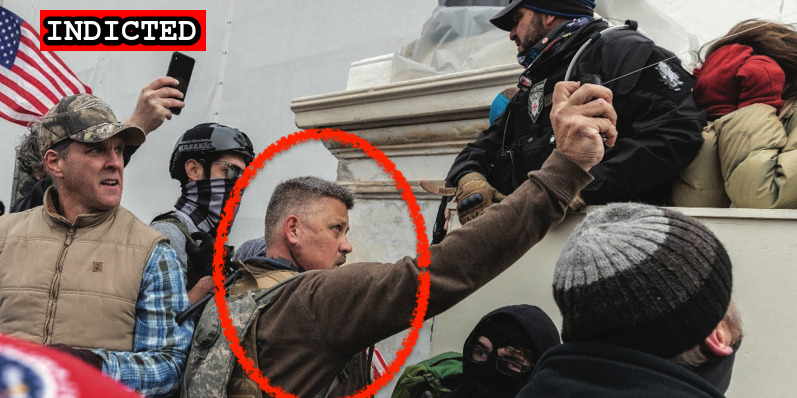
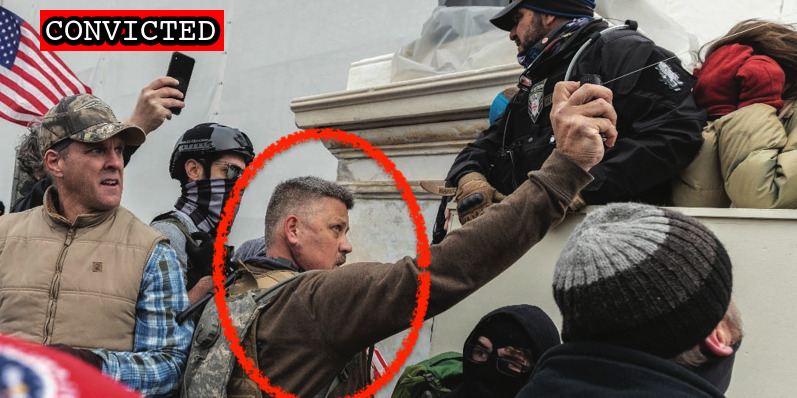
Latest

Changed region(s): [[0.0301, 0.0302, 0.3011, 0.1508]]

diff --git a/docs/_suspects/thomas-smith.md b/docs/_suspects/thomas-smith.md
@@ -4,11 +4,11 @@ lastName: Smith
 hashtag: MississippiFlagGuy
 aka:
 residence: Mississippi
-status: Indicted
+status: Convicted
 date: 2021-09-24
 charged: 2021-09-24
 indicted: 2021-09-24
-convicted:
+convicted: 2023-05-05
 acquitted:
 sentenced:
 dismissed:
@@ -32,7 +32,7 @@ raid:
 perpwalk:
 quote:
 title: Thomas Smith charged on September 24, 2021
-description: Click for latest case details. Suspects innocent until proven guilty.
+description: Convicted on May 5, 2023. Click for latest case details.
 author: seditiontrack
 layout: suspect
 published: true
@@ -41,7 +41,52 @@ caseName: USA v. SMITH
 judge: Carl J. Nichols
 videos:
 charges:
+  - code: 18 USC § 231(a)(3)
+    title: Obstruction of Law Enforcement During Civil Disorder
+    url: https://www.law.cornell.edu/uscode/text/18/231
+    felony: true
+  - code: 18 USC § 231(a)(3)
+    title: Obstruction of Law Enforcement During Civil Disorder
+    url: https://www.law.cornell.edu/uscode/text/18/231
+    felony: true
+  - code: 18 USC § 1512(c)(2),2
+    title: Obstruction of an Official Proceeding (Aiding and Abetting)
+    url: https://www.law.cornell.edu/uscode/text/18/1512
+    felony: true
+  - code: 18 USC § 111(a)(1)
+    title: Assaulting, resisting, or impeding certain officers or employees
+    url: https://www.law.cornell.edu/uscode/text/18/111
+    felony: true
+  - code: 18 USC § 111(a)(1)
+    title: Assaulting, resisting, or impeding certain officers or employees
+    url: https://www.law.cornell.edu/uscode/text/18/111
+    felony: true
+  - code: 18 USC § 111(a)(1) and (b)
+    title: Assaulting, resisting, or impeding certain officers or employees (using a deadly or dangerous weapon)
+    url: https://www.law.cornell.edu/uscode/text/18/111
+    felony: true
+  - code: 18 USC § 1752(a)(1) and b(1)(A)
+    title: Entering a restricted building or grounds (w/a deadly weapon)
+    url: https://www.law.cornell.edu/uscode/text/18/1752
+    felony: true
+  - code: 18 USC § 1752(a)(1) and b(1)(A)
+    title: Entering a restricted building or grounds (w/a deadly weapon)
+    url: https://www.law.cornell.edu/uscode/text/18/1752
+    felony: true
+  - code: 18 USC § 1752(a)(1) and b(1)(A)
+    title: Entering a restricted building or grounds (w/a deadly weapon)
+    url: https://www.law.cornell.edu/uscode/text/18/1752
+    felony: true
+  - code: 40 USC § 5104(e)(2)(D)
+    title: Disorderly Conduct in a Capitol Building
+    url: https://www.law.cornell.edu/uscode/text/40/5104
+    felony: false
+  - code: 40 USC § 5104(e)(2)(F)
+    title: Act of physical violence on Capitol grounds
+    url: https://www.law.cornell.edu/uscode/text/40/5104
+    felony: false
 sentence:
 ---
+
 - [News Report](https://www.huffpost.com/entry/trump-capitol-riot-cops_n_615dbe0ae4b069a0b3b84316)
-- [Indictment](https://extremism.gwu.edu/sites/g/files/zaxdzs2191/f/Donnie%20Duane%20Wren%20and%20Thomas%20Harlen%20Smith%20Indictment.pdf)
+- [Indictment](https://storage.courtlistener.com/recap/gov.uscourts.dcd.235927/gov.uscourts.dcd.235927.71.0_1.pdf)

diff --git a/docs/_suspects/christopher-worrell.md b/docs/_suspects/christopher-worrell.md
@@ -4,11 +4,11 @@ lastName: Worrell
 hashtag: SgtPepperSprayer
 aka:
 residence: Florida
-status: Indicted
+status: Convicted
 date: 2021-03-10
 charged: 2021-03-10
 indicted: 2021-04-09
-convicted:
+convicted: 2023-05-12
 acquitted:
 sentenced:
 dismissed:
@@ -17,7 +17,7 @@ plea_hearing:
 trial_date: 2022-12-12
 trial_type: Bench Trial
 jury_selection:
-sentencing:
+sentencing: 2023-08-18
 status_conference:
 age: 49
 occupation:
@@ -32,7 +32,7 @@ raid:
 perpwalk:
 quote:
 title: Christopher Worrell arrested on March 10, 2021
-description: Click for latest case details. Suspects innocent until proven guilty.
+description: Convicted on May 12, 2023. Click for latest case details.
 author: seditiontrack
 layout: suspect
 published: true
@@ -41,8 +41,33 @@ caseName: USA v. WORRELL
 judge: Royce C. Lamberth
 videos:
 charges:
+  - code: 18 USC § 1512(c)(2),2
+    title: Obstruction of an Official Proceeding (Aiding and Abetting)
+    url: https://www.law.cornell.edu/uscode/text/18/1512
+    felony: true
+  - code: 18 USC § 1752(a)(1) and b(1)(A)
+    title: Entering a restricted building or grounds (w/a deadly weapon)
+    url: https://www.law.cornell.edu/uscode/text/18/1752
+    felony: true
+  - code: 18 USC § 1752(a)(2) and b(1)(A)
+    title: Disorderly and Disruptive Conduct in a Restricted Building or Grounds (w/a deadly weapon)
+    url: https://www.law.cornell.edu/uscode/text/18/1752
+    felony: true
+  - code: 18 USC § 1752(a)(4), (b)(1)(A)
+    title: Entering a restricted building or grounds with a dangerous or deadly weapon
+    url: https://www.law.cornell.edu/uscode/text/18/1752
+    felony: true
+  - code: 18 USC § 231(a)(3)
+    title: Obstruction of Law Enforcement During Civil Disorder
+    url: https://www.law.cornell.edu/uscode/text/18/231
+    felony: true
+  - code: 18 USC § 111(a)(1) and (b)
+    title: Assaulting, resisting, or impeding certain officers or employees (using a deadly or dangerous weapon)
+    url: https://www.law.cornell.edu/uscode/text/18/111
+    felony: true
 sentence:
 ---
+
 - [News Report](https://www.naplesnews.com/story/news/2021/03/13/christopher-worrell-arrested-naples-ties-proud-boys-capitol-riot-suspected/4682025001/)
 - [Statement of Facts](https://www.justice.gov/usao-dc/case-multi-defendant/file/1379556/download)
-- [Indictment](https://www.justice.gov/usao-dc/case-multi-defendant/file/1387156/download)
+- [Indictment](https://storage.courtlistener.com/recap/gov.uscourts.dcd.229958/gov.uscourts.dcd.229958.147.0.pdf)

diff --git a/docs/_suspects/donnie-wren.md b/docs/_suspects/donnie-wren.md
@@ -4,11 +4,11 @@ lastName: Wren
 hashtag: KingstonAsh
 aka:
 residence: Alabama
-status: Indicted
+status: Convicted
 date: 2021-09-24
 charged: 2021-09-24
 indicted: 2021-09-24
-convicted:
+convicted: 2023-05-05
 acquitted:
 sentenced:
 dismissed:
@@ -17,7 +17,7 @@ plea_hearing:
 trial_date: 2023-04-19
 trial_type: Jury Trial
 jury_selection: 2023-04-19
-sentencing:
+sentencing: 2023-08-17
 status_conference:
 age:
 occupation:
@@ -32,7 +32,7 @@ raid:
 perpwalk:
 quote:
 title: Donnie Wren charged on September 24, 2021
-description: Click for latest case details. Suspects innocent until proven guilty.
+description: Convicted on May 5, 2023. Click for latest case details.
 author: seditiontrack
 layout: suspect
 published: true
@@ -41,7 +41,20 @@ caseName: USA v. WREN
 judge: Reggie B. Walton
 videos:
 charges:
+  - code: 18 USC § 231(a)(3)
+    title: Obstruction of Law Enforcement During Civil Disorder
+    url: https://www.law.cornell.edu/uscode/text/18/231
+    felony: true
+  - code: 18 USC § 111(a)(1)
+    title: Assaulting, resisting, or impeding certain officers or employees
+    url: https://www.law.cornell.edu/uscode/text/18/111
+    felony: true
+  - code: 18 USC § 1752(a)(1)
+    title: Entering a restricted building or grounds
+    url: https://www.law.cornell.edu/uscode/text/18/1752
+    felony: false
 sentence:
 ---
+
 - [News Report](https://www.huffpost.com/entry/trump-capitol-riot-cops_n_615dbe0ae4b069a0b3b84316)
-- [Indictment](https://extremism.gwu.edu/sites/g/files/zaxdzs2191/f/Donnie%20Duane%20Wren%20and%20Thomas%20Harlen%20Smith%20Indictment.pdf)
+- [Indictment](https://storage.courtlistener.com/recap/gov.uscourts.dcd.235927/gov.uscourts.dcd.235927.71.0_1.pdf)

diff --git a/docs/_suspects/daniel-scott.md b/docs/_suspects/daniel-scott.md
@@ -41,18 +41,19 @@ caseName: USA v. SCOTT
 judge: Royce C. Lamberth
 videos:
 charges:
-- code: 18 USC § 1512(c)(2),2
-  title: Obstruction of an Official Proceeding (Aiding and Abetting)
-  url: https://www.law.cornell.edu/uscode/text/18/1512
-  felony: true
-- code: 18 USC § 111(a)(1)
-  title: Assaulting, resisting, or impeding certain officers or employees
-  url: https://www.law.cornell.edu/uscode/text/18/111
-  felony: true
+  - code: 18 USC § 1512(c)(2),2
+    title: Obstruction of an Official Proceeding (Aiding and Abetting)
+    url: https://www.law.cornell.edu/uscode/text/18/1512
+    felony: true
+  - code: 18 USC § 111(a)(1)
+    title: Assaulting, resisting, or impeding certain officers or employees
+    url: https://www.law.cornell.edu/uscode/text/18/111
+    felony: true
 sentence:
 ---
+
 - [News Report](https://www.washingtonpost.com/local/legal-issues/proudboy-screaming-lets-take-capitol-arrested/2021/05/20/ccae5e00-b9a7-11eb-a6b1-81296da0339b_story.html)
 - [Statement of Facts](https://www.justice.gov/usao-dc/case-multi-defendant/file/1395876/download)
-- [Indictment](https://extremism.gwu.edu/sites/g/files/zaxdzs2191/f/Daniel%20Lyons%20Scott%20Indictment.pdf)
+- [Indictment](https://storage.courtlistener.com/recap/gov.uscourts.dcd.229958/gov.uscourts.dcd.229958.147.0.pdf)
 - [Plea Agreement](https://storage.courtlistener.com/recap/gov.uscourts.dcd.243944/gov.uscourts.dcd.243944.208.0.pdf)
 - [Statement of Offense](https://storage.courtlistener.com/recap/gov.uscourts.dcd.243944/gov.uscourts.dcd.243944.209.0.pdf)

diff --git a/docs/_suspects/dale-shalvey.md b/docs/_suspects/dale-shalvey.md
@@ -41,20 +41,19 @@ caseName: USA v. SHALVEY
 judge: Timothy J. Kelly
 videos:
 charges:
-  - code: 18 USC § 111(a)(1)
-    title: Assaulting, resisting, or impeding certain officers or employees
-    url: https://www.law.cornell.edu/uscode/text/18/111
-    felony: true
-  - code: 18 USC § 1512(c)(2),2
-    title: Obstruction of an Official Proceeding (Aiding and Abetting)
-    url: https://www.law.cornell.edu/uscode/text/18/1512
-    felony: true
+- code: 18 USC § 111(a)(1)
+  title: Assaulting, resisting, or impeding certain officers or employees
+  url: https://www.law.cornell.edu/uscode/text/18/111
+  felony: true
+- code: 18 USC § 1512(c)(2),2
+  title: Obstruction of an Official Proceeding (Aiding and Abetting)
+  url: https://www.law.cornell.edu/uscode/text/18/1512
+  felony: true
 sentence:
   - 41 months incarceration
   - 2 years probation
   - $200 restitution
 ---
-
 - [News Report](https://www.thedailybeast.com/pennsylvania-rioter-dale-shalvey-charged-after-going-through-senate-papers-during-capitol-riot)
 - [Statement of Facts](https://www.justice.gov/usao-dc/case-multi-defendant/file/1379321/download)
 - [Indictment](https://www.justice.gov/usao-dc/case-multi-defendant/file/1473426/download)

diff --git a/docs/_suspects/nathaniel-degrave.md b/docs/_suspects/nathaniel-degrave.md
@@ -41,21 +41,20 @@ caseName: USA v. DEGRAVE
 judge:
 videos:
 charges:
-  - code: 18 USC § 1512(k)
-    title: Conspiracy to Obstruct an Official Proceeding
-    url: https://www.law.cornell.edu/uscode/text/18/1512
-    felony: true
-  - code: 18 USC § 111(a)(1)
-    title: Assaulting, resisting, or impeding certain officers or employees
-    url: https://www.law.cornell.edu/uscode/text/18/111
-    felony: true
+- code: 18 USC § 1512(k)
+  title: Conspiracy to Obstruct an Official Proceeding
+  url: https://www.law.cornell.edu/uscode/text/18/1512
+  felony: true
+- code: 18 USC § 111(a)(1)
+  title: Assaulting, resisting, or impeding certain officers or employees
+  url: https://www.law.cornell.edu/uscode/text/18/111
+  felony: true
 sentence:
   - 37 months incarceration
   - 3 years probation
   - $25000 fine
   - $2000 restitution
 ---
-
 - [News Report](https://www.8newsnow.com/i-team/i-team-special-reports/i-team-las-vegas-nevada-man-accused-of-taking-part-in-capitol-riot-called-president-trump-his-idol-fbi/)
 - [Complaint](https://www.justice.gov/opa/page/file/1362391/download)
 - [Statement of Facts](https://www.justice.gov/opa/page/file/1362391/download)

diff --git a/docs/_suspects/josiah-colt.md b/docs/_suspects/josiah-colt.md
@@ -41,16 +41,15 @@ caseName: USA v. COLT
 judge: Dabney L. Friedrich
 videos:
 charges:
-  - code: 18 USC § 1512(c)(2)
-    title: Obstruction of an Official Proceeding
-    url: https://www.law.cornell.edu/uscode/text/18/1512
-    felony: true
+- code: 18 USC § 1512(c)(2)
+  title: Obstruction of an Official Proceeding
+  url: https://www.law.cornell.edu/uscode/text/18/1512
+  felony: true
 sentence:
   - 15 months incarceration
   - 3 years probation
   - $1000 restitution
 ---
-
 - [News Report](https://wgntv.com/news/josiah-colt-man-seen-hanging-from-senate-balcony-turns-himself-in/)
 - [DOJ Press Release](https://www.justice.gov/usao-dc/pr/seven-charged-federal-court-following-events-united-capitol)
 - [Self Incrimination Pt. 1](https://idahonews.com/more-to-watch/boise-man-goes-viral-after-making-his-way-onto-senate-floor?utm_source=t.co&utm_medium=referral&utm_campaign=socialflow)

diff --git a/docs/_suspects/katharine-morrison.md b/docs/_suspects/katharine-morrison.md
@@ -41,16 +41,15 @@ caseName: USA v. MORRISON
 judge: Timothy J. Kelly
 videos:
 charges:
-  - code: 18 USC § 1512(c)(2),2
-    title: Obstruction of an Official Proceeding (Aiding and Abetting)
-    url: https://www.law.cornell.edu/uscode/text/18/1512
-    felony: true
+- code: 18 USC § 1512(c)(2),2
+  title: Obstruction of an Official Proceeding (Aiding and Abetting)
+  url: https://www.law.cornell.edu/uscode/text/18/1512
+  felony: true
 sentence:
   - 8 months incarceration
   - 2 years probation
   - $2000 restitution
 ---
-
 - [News Report](https://www.whec.com/livingston-county-ny-news/livingston-county-woman-indicted-for-capitol-riot/6426541/)
 - [Indictment](https://www.justice.gov/usao-dc/case-multi-defendant/file/1473421/download)
 - [Plea Agreement](https://www.justice.gov/usao-dc/case-multi-defendant/file/1540346/download)

diff --git a/docs/_suspects/salvatore-vassallo.md b/docs/_suspects/salvatore-vassallo.md
@@ -41,13 +41,12 @@ caseName: USA v. VASSALLO
 judge: Amy B. Jackson
 videos:
 charges:
-  - code: 18 USC § 111(a)(1)
-    title: Assaulting, resisting, or impeding certain officers or employees
-    url: https://www.law.cornell.edu/uscode/text/18/111
-    felony: true
+- code: 18 USC § 111(a)(1)
+  title: Assaulting, resisting, or impeding certain officers or employees
+  url: https://www.law.cornell.edu/uscode/text/18/111
+  felony: true
 sentence:
 ---
-
 - [News Report](https://newjersey.news12.com/toms-river-man-faces-charges-related-to-jan-6-riot-at-the-us-capitol)
 - [Statement of Facts](https://www.justice.gov/usao-dc/case-multi-defendant/file/1535166/download)
 - [Complaint](https://www.justice.gov/usao-dc/case-multi-defendant/file/1535176/download)

diff --git a/docs/_suspects/felipe-martinez.md b/docs/_suspects/felipe-martinez.md
@@ -43,7 +43,6 @@ videos:
 charges:
 sentence:
 ---
-
 - [News Report](https://www.washingtonpost.com/local/legal-issues/three-percenters-charged-conspiracy-capitol-riot/2021/06/10/f84091e6-c9ec-11eb-81b1-34796c7393af_story.html)
 - [Indictment](https://storage.courtlistener.com/recap/gov.uscourts.dcd.232192/gov.uscourts.dcd.232192.210.0.pdf)
 - [DOJ Press Release](https://www.justice.gov/usao-dc/pr/six-california-men-four-whom-self-identify-members-three-percenter-militias-indicted)

diff --git a/docs/_suspects/derek-kinnison.md b/docs/_suspects/derek-kinnison.md
@@ -43,7 +43,6 @@ videos:
 charges:
 sentence:
 ---
-
 - [News Report](https://www.desertsun.com/story/news/nation/california/2021/06/10/four-riverside-county-men-among-6-socal-residents-indicted-capitol-breach/7647401002/)
 - [Indictment](https://storage.courtlistener.com/recap/gov.uscourts.dcd.232192/gov.uscourts.dcd.232192.210.0.pdf)
 - [DOJ Press Release](https://www.justice.gov/usao-dc/pr/six-california-men-four-whom-self-identify-members-three-percenter-militias-indicted)

diff --git a/docs/_suspects/erik-warner.md b/docs/_suspects/erik-warner.md
@@ -43,7 +43,6 @@ videos:
 charges:
 sentence:
 ---
-
 - [News Report](https://www.cnn.com/2021/06/10/politics/capitol-riot-three-percenters-conspiracy-case-doj/index.html)
 - [Indictment](https://storage.courtlistener.com/recap/gov.uscourts.dcd.232192/gov.uscourts.dcd.232192.210.0.pdf)
 - [DOJ Press Release](https://www.justice.gov/usao-dc/pr/six-california-men-four-whom-self-identify-members-three-percenter-militias-indicted)
